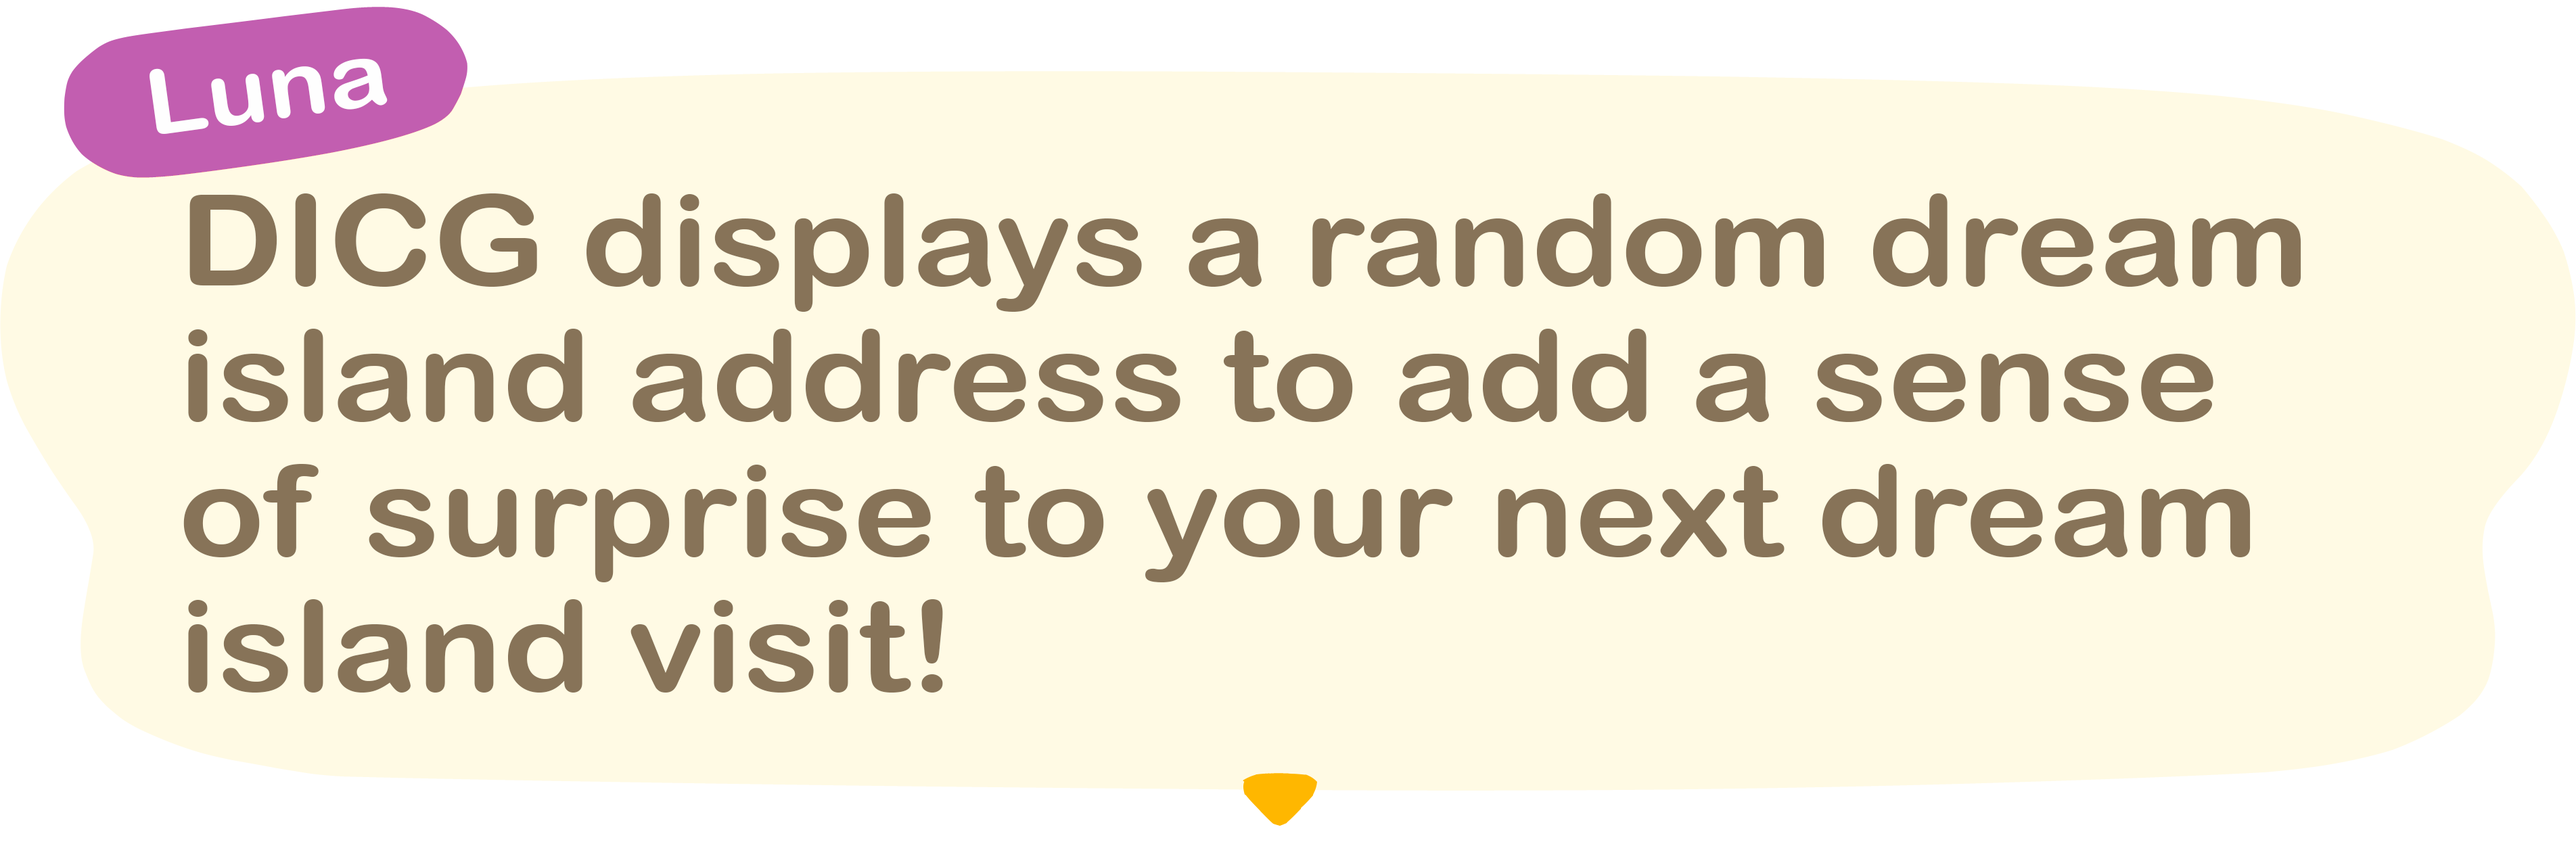
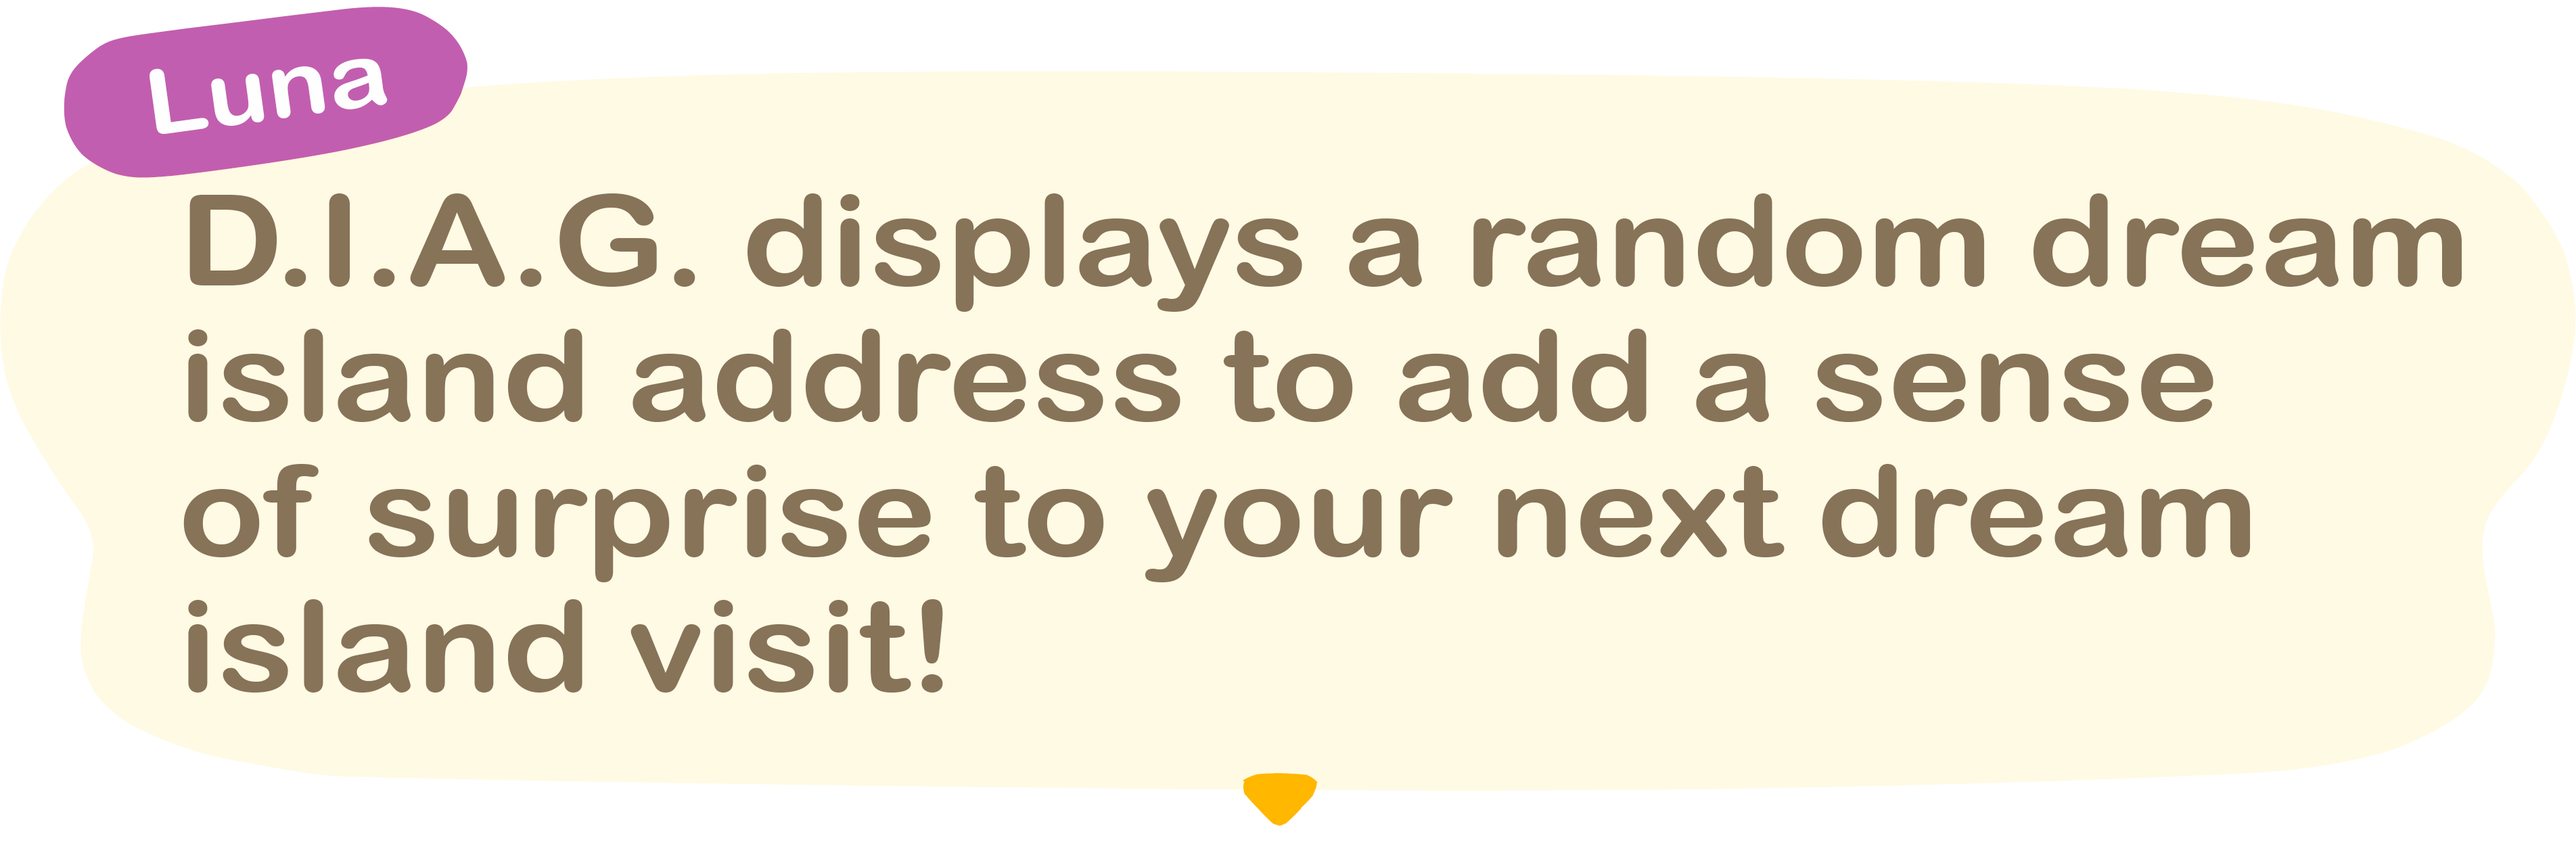
Rename app

Changed region(s): [[0.0938, 0.2137, 0.9688, 0.3663]]

diff --git a/public/index.html b/public/index.html
@@ -3,12 +3,12 @@
   <head>
     <meta charset="UTF-8" />
     <meta name="viewport" content="width=device-width, initial-scale=1.0" />
-    <title>Dream Island Code Generator</title>
+    <title>Dream Island Address Generator</title>
   </head>
   <body>
     <main>
       <section>
-        <h1 class="site-title">Dream Island Code Generator</h1>
+        <h1 class="site-title">Dream Island Address Generator</h1>
       </section>
       <section>
         <div class="code-section">

diff --git a/src/style.scss b/src/style.scss
@@ -72,9 +72,13 @@ main {
   font-family: "Dancing Script", cursive;
   text-align: center;
   color: #dcc790;
-  font-size: 2.8rem;
+  font-size: 2.5rem;
   margin: 0 0 1.5rem;
-  padding-top: 1.5rem;
+  padding: 1.5rem 0.5rem 0;
+
+  @include res-bkpt("tablet") {
+    padding: 1.5rem 0 0;
+  }
 }
 
 .code-section {
